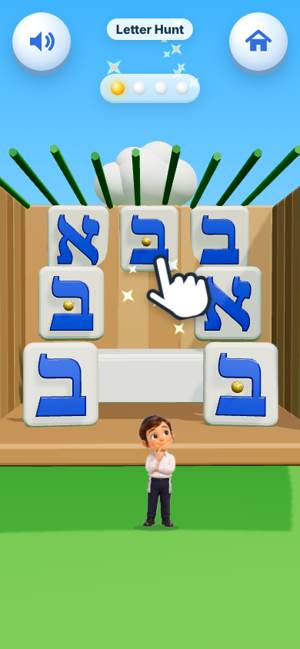
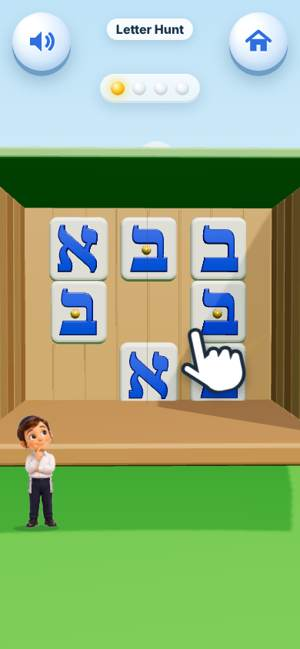
2.0 K clarity review-kriyah round 3 (Units 1-2): Letter Hunt one flat grid of same-size tiles, no table, soft roof, first miss shows; train waiting cars below the track and a pale empty car marks the next place; Sound Match card clear of the letters; Mendy's story phone fixes and 'Abba means Tatty';
Claude-Session: https://claude.ai/code/session_016N866vM14TpCsxVwPqjzgh

diff --git a/v2/app/k-kriyah/games/hunt.js b/v2/app/k-kriyah/games/hunt.js
@@ -28,17 +28,17 @@ export default function setup(E, { struggled, unit, game }) {
   function buildSukkah(w) {
     if (suk) E.scene.remove(suk); suk = new THREE.Group(); E.scene.add(suk); W = w; const hw = w / 2;
     suk.add(E.mesh(E.rbox(w + .4, .16, 4.2, .05), wood2, 0, .08, -.1));
-    const n = Math.round(w / .52); for (let i = 0; i < n; i++) suk.add(E.mesh(E.rbox(w / n - .03, 3.3, .14, .04), i % 2 ? wood : wood2, -hw + (i + .5) * w / n, 1.75, -1.7));   /* back wall */
+    const n = Math.round(w / .52); for (let i = 0; i < n; i++) suk.add(E.mesh(E.rbox(w / n - .03, 3.3, .14, .04), i % 2 || E.CALM ? wood : wood2, -hw + (i + .5) * w / n, 1.75, -1.7));   /* back wall */
     for (const s of [-1, 1]) for (let i = 0; i < 6; i++) suk.add(E.mesh(E.rbox(.14, 3.3, .5, .04), i % 2 ? wood : wood2, s * (hw + .05), 1.75, -1.45 + i * .52));   /* side walls */
-    for (let i = 0; i < Math.round(w * 2.2); i++) { const b = E.mesh(new THREE.CylinderGeometry(.05, .05, 4.1, 6), i % 2 ? leaf : leaf2, -hw + i / 2.2 + .1, 3.42 + (i % 3) * .04, -.1, false); b.rotation.x = Math.PI / 2; suk.add(b); }   /* schach */
+    if (E.CALM) suk.add(E.mesh(E.rbox(w + .3, .07, 4.2, .03), E.M(0x8fd07a, { roughness: .8, emissive: 0x6fb05a, emissiveIntensity: .7 }), 0, 3.45, -.1, false));   /* a soft green roof, light underneath too */ else for (let i = 0; i < Math.round(w * 2.2); i++) { const b = E.mesh(new THREE.CylinderGeometry(.05, .05, 4.1, 6), i % 2 ? leaf : leaf2, -hw + i / 2.2 + .1, 3.42 + (i % 3) * .04, -.1, false); b.rotation.x = Math.PI / 2; suk.add(b); }   /* schach */
     if (!E.CALM) for (let i = 0; i < Math.round(w * 1.6); i++) suk.add(E.mesh(new THREE.SphereGeometry(.22 + (i % 3) * .05, 10, 8), i % 2 ? leaf : leaf2, -hw + (i * .63) % w, 3.55, -1.6 + (i * 1.37) % 3.4, false));
     /* a paper chain along the back wall (not in the calm look: seen edge-on its rings looked like Vov and Zayin, K-CLARITY 10, 11) */
     if (!E.CALM) { const cc = [0xff5d8f, 0x2dbb6a, 0x2f7de1, 0x9b5de5];   /* no gold or yellow near the letters: it could look like the dagesh */ for (let i = 0; i < Math.round(w * 3); i++) { const r = E.mesh(new THREE.TorusGeometry(.1, .025, 6, 12), E.M(cc[i % 4], { roughness: .4 }), -hw + .2 + i / 3, 3.15 - Math.sin(i / 3 * 1.4) * .12, -1.55, false); r.rotation.y = i % 2 ? Math.PI / 2 : 0; suk.add(r); } }
     /* hanging fruit, only in the far top corners (not in the calm look) */
     if (!E.CALM) [[-.46, 0xe8322b], [.46, 0x8e2b8e]].forEach(([x, c]) => { const X = x * w; suk.add(E.mesh(new THREE.CylinderGeometry(.008, .008, .4, 4), E.M(0xffffff), X, 3.15, -1.2, false)); suk.add(E.mesh(new THREE.SphereGeometry(.15, 16, 12), E.M(c, { roughness: .3, clearcoat: .8 }), X, 2.92, -1.2)); });
     /* the table with a white cloth, a kiddush cup and a fruit bowl */
-    const tw = Math.min(3.2, w * .5); suk.add(E.mesh(E.rbox(tw, .12, 1.3, .05), cloth, 0, 1.0, -.2)); suk.add(E.mesh(E.rbox(tw + .05, .55, .05, .02), cloth, 0, .75, .46));
-    [[-1, -1], [1, -1]].forEach(([a]) => suk.add(E.mesh(new THREE.CylinderGeometry(.05, .05, 1, 8), wood2, a * (tw / 2 - .15), .5, -.7)));
+    const tw = Math.min(3.2, w * .5); if (!E.CALM) { suk.add(E.mesh(E.rbox(tw, .12, 1.3, .05), cloth, 0, 1.0, -.2)); suk.add(E.mesh(E.rbox(tw + .05, .55, .05, .02), cloth, 0, .75, .46)); }   /* calm: no table (its white cloth looked like one more blank tile) */
+    if (!E.CALM) [[-1, -1], [1, -1]].forEach(([a]) => suk.add(E.mesh(new THREE.CylinderGeometry(.05, .05, 1, 8), wood2, a * (tw / 2 - .15), .5, -.7)));
     if (!E.CALM) { suk.add(E.mesh(new THREE.CylinderGeometry(.09, .05, .22, 16), E.M(0xd8dde6, { metalness: .9, roughness: .15 }), -tw * .3, 1.2, -.35)); suk.add(E.mesh(new THREE.CylinderGeometry(.02, .02, .14, 8), E.M(0xd8dde6, { metalness: .9, roughness: .15 }), -tw * .3, 1.1, -.35)); }
     if (!E.CALM) { suk.add(E.mesh(new THREE.SphereGeometry(.3, 20, 10, 0, Math.PI * 2, Math.PI / 2, Math.PI / 2), E.M(0xff8a1e, { side: THREE.DoubleSide }), tw * .28, 1.33, -.35)); }
     if (!E.CALM) { [0xe8322b, 0x7bc043, 0xc0392b].forEach((c, i) => suk.add(E.mesh(new THREE.SphereGeometry(.12, 14, 10), E.M(c, { roughness: .3, clearcoat: .8 }), tw * .28 - .12 + i * .12, 1.36, -.35))); }
@@ -54,19 +54,21 @@ export default function setup(E, { struggled, unit, game }) {
     else sp = [[-1.15, 3.0, -1.5, 0], [0, 3.0, -1.5, 0], [1.15, 3.0, -1.5, 0],   /* a phone: three tidy rows, apart (the back wall, */
       [-1.15, 1.8, -.4, 0], [1.15, 1.8, -.4, 0],                                         /* beside the table, */
       [-1.15, .75, .9, 0], [0, .75, .9, 0], [1.15, .75, .9, 0]];                         /* and in front) */
+    if (E.CALM) sp = w >= 5 ? [-2.4, -.8, .8, 2.4].flatMap(x => [[x, 2.55, -1.45, 0], [x, 1.15, -1.45, 0]])   /* calm: one flat grid on the back wall, every tile the same size, none in front of another */
+      : [[-1.15, 2.7, -1.45, 0], [0, 2.7, -1.45, 0], [1.15, 2.7, -1.45, 0], [-1.15, 1.67, -1.45, 0], [1.15, 1.67, -1.45, 0], [-1.15, .64, -1.45, 0], [0, .64, -1.45, 0], [1.15, .64, -1.45, 0]];
     spots = sp.map(([x, y, z, ry]) => ({ p: new THREE.Vector3(x, y, z), ry }));
     if (letters.length) letters.forEach((l, i) => { if (l.userData.spot != null) placeAt(l, l.userData.spot); });
   }
   E.onLayout(p => {
     buildSukkah(p ? 4.2 : 7.4);
-    if (p) { E.camBase.set(0, 1.7, 9.4); E.camTarget.set(0, 1.5, 0); boy.position.set(0, 0, 4.2); boy.scale.setScalar(.5); }
-    else { E.camBase.set(0, 2.2, 9.2); E.camTarget.set(0, 1.75, 0); boy.position.set(-2.9, .16, 1.55); boy.scale.setScalar(.85); }
+    if (p) { E.camBase.set(0, 1.7, 9.4); E.camTarget.set(0, 1.5, 0); boy.position.set(E.CALM ? -.95 : 0, 0, 4.2); boy.scale.setScalar(.5); }
+    else { E.camBase.set(0, 2.2, 9.2); E.camTarget.set(0, 1.75, 0); boy.position.set(E.CALM ? -4.35 : -2.9, .16, 1.55); boy.scale.setScalar(.85); }   /* calm: the boy stands beside the sukkah, never in front of a tile */
   });
   E.setSway(.5);
   const SIZE = () => E.portrait ? .72 : .9;
-  function placeAt(l, i) { const s = spots[i]; l.userData.spot = i; l.position.copy(s.p); l.lookAt(E.cam.position); l.userData.base = s.p.clone(); }   /* every tile faces the boy, so no letter is squashed (reviewer: floor and side-wall letters looked like other letters) */
+  function placeAt(l, i) { const s = spots[i]; l.userData.spot = i; l.position.copy(s.p); if (E.CALM) l.rotation.set(0, 0, 0); else l.lookAt(E.cam.position); l.userData.base = s.p.clone(); }   /* every tile faces the boy, so no letter is squashed (reviewer: floor and side-wall letters looked like other letters) */
   E.onFrame(t => {
-    letters.forEach((l, i) => { if (l.visible && l.userData.base && !l.userData.busy) { if (E.CALM) { l.position.copy(l.userData.base); l.lookAt(E.cam.position); return; } l.position.y = l.userData.base.y + Math.sin(t * 1.6 + i) * .03; l.rotation.z = Math.sin(t * 1.3 + i) * .05;   /* calm: the letters stand still (K-CLARITY 10) */ } });
+    letters.forEach((l, i) => { if (l.visible && l.userData.base && !l.userData.busy) { if (E.CALM) { l.position.copy(l.userData.base); l.rotation.set(0, 0, 0); return; }   /* calm: flat on the wall, facing straight out */ l.position.y = l.userData.base.y + Math.sin(t * 1.6 + i) * .03; l.rotation.z = Math.sin(t * 1.3 + i) * .05;   /* calm: the letters stand still (K-CLARITY 10) */ } });
     if (helpOn && helpOn.visible) { glow.position.copy(helpOn.position).add(new THREE.Vector3(0, 0, -.2)); glow.material.opacity = .6 + Math.sin(t * 5) * .3; } else glow.material.opacity = 0;
   });
   window.__info = () => ({ rects: spots.map(x => { const a = E.toScreen(x.p.clone().add(new THREE.Vector3(-SIZE() * .6, SIZE() * .65, 0))), b = E.toScreen(x.p.clone().add(new THREE.Vector3(SIZE() * .6, -SIZE() * .65, 0))); return [a[0], a[1], b[0], b[1]]; }),   /* each tile's box on screen */ want, round, active, targets: letters.filter(l => l.visible && l.userData.key === want && !l.userData.got).map(l => E.toScreen(E.worldPos(l))),
@@ -96,7 +98,7 @@ export default function setup(E, { struggled, unit, game }) {
     if (plan.bySound) { E.noteLetter && E.noteLetter(want, false); await E.say(E.quiet(k) ? ['That is ' + NM(k) + '. It is quiet. Find', E.S(E.LETTERS[want].snd), '!'] : ['That is ' + NM(k) + '. It says', E.S(E.LETTERS[k].snd), '. Find', E.S(E.LETTERS[want].snd), '!']); }   /* a sound game answers with sounds */
     else await E.say('That is ' + NM(k) + '. ' + look);   /* 12 words or fewer */
     arrow.visible = false;
-    if (wrongInRound >= 2) showHelp();
+    if (wrongInRound >= (E.CALM ? 1 : 2)) showHelp();   /* calm: the first miss already shows a right one (K-CLARITY 16) */
   }
   function showHelp() { const t = letters.find(l => l.visible && !l.userData.got && l.userData.key === want); if (!t) return; helpOn = t; if (E.CALM) return E.handBelow(t, true); const [x, y] = E.toScreen(E.worldPos(t)); E.hand.at(x + 10, y + 10, true); }
   E.onPointer('down', async e => {

diff --git a/v2/app/k-kriyah/games/train.js b/v2/app/k-kriyah/games/train.js
@@ -25,19 +25,21 @@ export default function setup(E, { struggled, unit, game = {} }) {
     c.add(E.mesh(new THREE.BoxGeometry(.12, .06, .06), gold, .56, .4, 0));
     const l = E.letter(k, .8); l.position.set(0, 1.15 + l.userData.below, .1); if (E.CALM) { l.position.set(0, 0, .1); l.updateMatrixWorld(true); const lift = -new THREE.Box3().setFromObject(l.userData.body).min.y; l.children.forEach(ch => ch.position.y += lift); l.position.y = .95; }   /* calm: the letter's foot stands on the roof, so nothing of it sinks into the car (reviewer: Alef was two bumps, Hei lost its leg) */   /* Kuf's long leg shows above the car */ c.add(l); c.userData = { key: k, i, on: false, letter: l }; E.scene.add(c); return c; });
   const glow = E.glowSprite('#fff7b0', 2.2, 0); E.scene.add(glow);
+  const ghost = E.mesh(E.rbox(1.0, .55, .75, .08), new THREE.MeshStandardMaterial({ color: 0xffffff, transparent: true, opacity: .45, roughness: .5 }), 0, 0, 0, false); ghost.visible = false; E.scene.add(ghost);   /* calm: a pale empty car marks where the next car goes */
   let LX = 4.6, P = false, S = 1, slotX = [], homes = [], busy = true, enabled = false, drag = null, grab = new THREE.Vector3(), help = struggled, wrong = 0, wrongInRow = 0, resolveRound = null, gaps = null, rolling = false;
   const slotPos = i => new THREE.Vector3(slotX[i], 0, .2);
   E.onLayout(p => { P = p; S = p ? (ORDER.length === 5 ? .6 : .5) : 1;
     const lx = p ? (ORDER.length >= 7 ? 2.0 : ORDER.length >= 6 ? 1.85 : ORDER.length === 5 ? 1.75 : 1.68) : 4.6, step = p ? (ORDER.length >= 7 ? .53 : ORDER.length >= 6 ? .6 : ORDER.length === 5 ? .68 : .55) : 1.22;   /* seven cars: a little closer, so the last car stays on a phone screen */   /* on a phone the whole train fits the width */ LX = lx; loco.position.set(lx, 0, .2); loco.scale.setScalar(S); track.scale.set(1, 1, S); track.position.z = .2;
     slotX = ORDER.map((_, i) => lx - (p ? .67 : 1.35) - i * step);
     const top = Math.ceil(ORDER.length / 2), per = ORDER.length > 6 ? [top, ORDER.length - top] : [3, 3];   /* seven cars: four on top, three below, none on top of another */
-    homes = ORDER.map((_, i) => p ? (() => { const r = i < per[0] ? 0 : 1, j = r ? i - per[0] : i, n = per[r], gap = n > 3 ? 1.05 : 1.3; return new THREE.Vector3(((n - 1) / 2 - j) * gap, r ? 1.6 : 3.2, .6); })() : new THREE.Vector3(ORDER.length > 6 ? ((ORDER.length - 1) / 2 - i) * .76 : E.CALM ? ((ORDER.length - 1) / 2 - i) * .98 - .2 : 2.25 - i * .98, 0, ORDER.length > 6 ? 3.7 : 4.2));   /* calm: the waiting cars stand well apart, so they never look like a train already made */   /* seven cars: centred and a little closer, so none leaves the screen */   /* all inside the screen: on a phone, two rows above the train */   /* waiting on the grass in front of the track */
+    homes = ORDER.map((_, i) => p ? (() => { const r = i < per[0] ? 0 : 1, j = r ? i - per[0] : i, n = per[r], gap = n > 3 ? 1.05 : 1.3; return new THREE.Vector3(((n - 1) / 2 - j) * gap, r ? 1.6 : 3.2, .6); })() : new THREE.Vector3(ORDER.length > 6 ? ((ORDER.length - 1) / 2 - i) * .76 : E.CALM ? ((ORDER.length - 1) / 2 - i) * .9 - .2 : 2.25 - i * .98, 0, ORDER.length > 6 ? 3.7 : E.CALM ? 4.75 : 4.2));   /* calm: well in front of (below) the train, never over its cars */   /* calm: the waiting cars stand well apart, so they never look like a train already made */   /* seven cars: centred and a little closer, so none leaves the screen */   /* all inside the screen: on a phone, two rows above the train */   /* waiting on the grass in front of the track */
     cars.forEach(c => c.userData.letter.scale.setScalar(p ? 1.45 : 1));   /* much bigger letters on a phone (reviewer: Kaf's dot hardly showed) */
     cars.forEach(c => { c.scale.setScalar(c.userData.on ? S : (p ? .75 : .7)); if (c.userData.on) c.position.copy(slotPos(c.userData.slot)); else if (c !== drag) c.position.copy(homes[c.userData.home ?? c.userData.i]); });
-    if (p) { E.camBase.set(0, 2.3, 11); E.camTarget.set(0, 1.8, 0); } else { E.camBase.set(0, 2.7, 10.2); E.camTarget.set(0, 1.5, 0); }
+    if (p) { E.camBase.set(0, 2.3, 11); E.camTarget.set(0, 1.8, 0); } else { E.camBase.set(0, 2.7, 10.2); E.camTarget.set(0, E.CALM ? 1.05 : 1.5, 0); }   /* calm: a little more ground, so the waiting cars sit well below the train */
   });
   E.onFrame(t => {
-    puffs.forEach((p, i) => { const k = ((t * .8 + i / 4) % 1); p.position.set(-.35 - k * .5, 1.4 + k * .9, 0); p.scale.setScalar(.6 + k * 1.2); p.material.opacity = .8 * (1 - k); });
+    { const nn = E.CALM && enabled && !swapPairs.length ? nextNeeded() : null; ghost.visible = nn != null && !drag; if (ghost.visible) { ghost.position.copy(slotPos(nn)).add(new THREE.Vector3(0, .55 * S, 0)); ghost.scale.setScalar(S); ghost.material.opacity = .35 + Math.sin(t * 3) * .12; } }
+    if (E.CALM) puffs.forEach(p => p.visible = false); else puffs.forEach((p, i) => { const k = ((t * .8 + i / 4) % 1); p.position.set(-.35 - k * .5, 1.4 + k * .9, 0); p.scale.setScalar(.6 + k * 1.2); p.material.opacity = .8 * (1 - k); });
     cars.forEach((c, i) => { if (!c.userData.on && c !== drag && !c.userData.busy && c.visible) { c.position.y = homes[c.userData.home ?? i].y + Math.sin(t * 2 + i) * .05; } if (!E.CALM) c.userData.letter.rotation.y = Math.sin(t * 1.3 + i) * .2; if (P) c.userData.letter.scale.setScalar(c.userData.on ? (swapPairs.length ? 1.15 : ORDER.length >= 6 ? 1.25 : 1.2) : 1.3);   /* in the mix-up round the letters on the train are bigger, so the dots show */ });   /* on a phone, letters on the train are bigger */
     const need = nextNeeded(), g = swapPairs.length ? cars.find(c => swapPairs.some(p => p.includes(c.userData.slot))) : need != null && cars.find(c => c.userData.key === ORDER[need] && !c.userData.on);   /* in the mix-up round, a mixed-up car glows */
     if (help && g && enabled) { glow.position.copy(g.position).add(new THREE.Vector3(0, .9 * g.scale.x, -.4)); glow.material.opacity = .55 + Math.sin(t * 5) * .3; } else glow.material.opacity = 0;

diff --git a/v2/app/k-kriyah/games/soundmatch.js b/v2/app/k-kriyah/games/soundmatch.js
@@ -9,7 +9,7 @@ export default function setup(E, { struggled, unit, game = {} }) {
   const words = Object.keys(WORDS).filter(w => keys.includes(WORDS[w].letter) && hasPic(w)).filter((w, i, a) => a.slice(0, i).filter(x => WORDS[x].letter === WORDS[w].letter).length < 2);   /* two pictures per letter */
   words.forEach(w => PIC[w]());   /* every picture starts loading now, so no card is ever blank */
   const kid = E.unitBoy(unit.n); E.scene.add(kid);   /* the unit's boy: Shloimy, then Ari */
-  const L = {}, peds = [], pedM = E.M(0xffffff, { roughness: .25, clearcoat: .8 }), tops = [0xff7aa8, 0x46c3ff, E.CALM ? 0x7bd94a : 0xffcf3a];
+  const L = {}, peds = [], pedM = E.M(0xffffff, { roughness: .25, clearcoat: .8 }), tops = E.CALM ? [0x9fc3e6, 0x9fc3e6, 0x9fc3e6] : [0xff7aa8, 0x46c3ff, 0xffcf3a];
   keys.forEach((k, i) => { const p = new THREE.Group(); p.add(E.mesh(new THREE.CylinderGeometry(.75, .85, .5, 32), pedM, 0, .25, 0)); p.add(E.mesh(new THREE.CylinderGeometry(.78, .78, .12, 32), E.M(tops[i % 3], { roughness: .25, clearcoat: 1 }), 0, .55, 0));
     const l = E.letter(k, 1.4); l.position.y = E.CALM ? .68 - E.footOf(l) : 1.4 + l.userData.below;   /* calm: every letter stands on its stand */   /* Kuf's long leg stands above the stand */ p.add(l); L[k] = l; p.userData.key = k; E.scene.add(p); peds.push(p); });
   const ROW1 = () => false; const SHELF = () => E.CALM && P && peds.length > 3;   /* calm, on a phone: two shelves of two, all at the same distance and facing him (one row of four was too small) */
@@ -22,7 +22,7 @@ export default function setup(E, { struggled, unit, game = {} }) {
   let pic = null, word = null, P = false, gap = 2.3, cardHome = new THREE.Vector3(), busy = true, dragging = false, enabled = false, help = struggled, mistakes = 0, missed = false, onDone = null, idx = 0;
   E.onLayout(p => { P = p; gap = p ? (peds.length > 3 ? (ROW1() ? .9 : 1.12) : 1.45) : (peds.length > 3 ? 2.05 : 2.3); kid.visible = !p;   /* on a phone there's no room for Shloimy beside the stands */
     if (p) { if (peds.length > 3 && !ROW1()) { E.camBase.set(0, 5.6, 11.5); E.camTarget.set(0, 1.3, .8); cardHome.set(0, 3.6, -3.4); } else { E.camBase.set(0, 2.8, 10.6); E.camTarget.set(0, 2.4, 0); cardHome.set(0, 3.9, 2.2); } kid.position.set(-1.5, 0, 2.6); kid.scale.setScalar(.6); }
-    else { E.camBase.set(0, 2.6, 9.5); E.camTarget.set(0, 1.9, 0); cardHome.set(0, E.CALM ? 2.85 : 3.15, 2.2);   /* calm: below the progress dots (the letters now stand lower) */   /* higher when a raised Kuf stands below */   /* well above the letters, so it never seems to belong to one */ kid.position.set(-4.4, 0, 1.2); kid.scale.setScalar(1); }
+    else { E.camBase.set(0, 2.6, 9.5); E.camTarget.set(0, 1.9, 0); cardHome.set(0, E.CALM ? 3.0 : 3.15, 2.2);   /* calm: below the progress dots (the letters now stand lower) */   /* higher when a raised Kuf stands below */   /* well above the letters, so it never seems to belong to one */ kid.position.set(-4.4, 0, 1.2); kid.scale.setScalar(1); }
     const m = peds.length, two = P && m > 3 && !ROW1() && !SHELF(); shelf.visible = SHELF(); if (SHELF()) { E.camBase.set(0, 2.9, 11.2); E.camTarget.set(0, 2.55, 0); cardHome.set(0, 4.95, 1.0); } peds.forEach((pd, i) => { if (two) pd.position.set(i % 2 ? -1.0 : 1.0, 0, i < 2 ? -3.0 : 2.6); else if (SHELF()) pd.position.set(i % 2 ? -.72 : .72, i < 2 ? 2.08 : 0, .6); else pd.position.set(((m - 1) / 2 - i) * gap, 0, .6); pd.scale.setScalar(SHELF() ? .62 : PS()); });   /* on a phone, four stands in two rows of two, right to left, top row first */   /* right to left: Gimmel, Daled, Hei, then Beis */
     if (card.visible && !dragging && !busy) card.position.copy(cardHome);
   });
@@ -47,7 +47,7 @@ export default function setup(E, { struggled, unit, game = {} }) {
 
   async function showCard(w) {
     word = w; if (pic) card.remove(pic); pic = PIC[w](); card.add(pic); const wide = pic.userData.card && pic.userData.card.scale.x > 2.2; pic.scale.setScalar(wide ? .78 : 1); cardBack.scale.x = pic.userData.card ? Math.max(1, (pic.userData.card.scale.x * (wide ? .78 : 1) + .35) / 2.05) : 1;   /* a wide picture (the cloud) is a little smaller, on a wider card */   /* a wide picture (the cloud) gets a wider card */ card.position.copy(cardHome); card.rotation.set(0, 0, 0); missed = false;
-    await E.popIn(card, (P ? .9 : .85) * (keys.includes('kuf') && !P ? .7 : keys.includes('kuf') ? .78 : 1)); busy = false;   /* a little smaller above a raised Kuf */
+    await E.popIn(card, (P ? .9 : E.CALM ? .7 : .85) * (keys.includes('kuf') && !P ? .7 : keys.includes('kuf') ? .78 : 1)); busy = false;   /* a little smaller above a raised Kuf */
     await E.say(WORDS[w].say);
   }
   async function back() { const p0 = card.position.clone(); busy = true; await E.tween(400, k => card.position.lerpVectors(p0, cardHome, k), E.ease.out); busy = false; }

diff --git a/v2/app/k-kriyah/games/story.js b/v2/app/k-kriyah/games/story.js
@@ -44,8 +44,8 @@ export default function setup(E) {
     E.tween(700, k => glow.material.opacity = k * .8); await E.popIn(alef, 1, 700); float(alef);
     E.setProgress(4, 1);
     await E.say('This is Alef.');
-    const ds = dad.scale.x; dad.position.set(P ? -1.4 : -2.4, 0, 1.4); if (P) dad.scale.setScalar(ds * .68); dad.mood('wave');
-    await E.say('Abba starts with Alef.'); dad.mood('calm');
+    const ds = dad.scale.x; dad.position.set(P ? (E.CALM ? -1.95 : -1.4) : -2.4, 0, 1.4);   /* calm: on a phone Tatty stands clear of Alef's leg */ if (P) dad.scale.setScalar(ds * .68); dad.mood('wave');
+    await E.say(E.CALM ? 'Abba means Tatty. Abba starts with Alef.' : 'Abba starts with Alef.'); dad.mood('calm');
     await E.say('Alef is quiet. It waits for its nekudah.');
     await E.sayWithMe('alef');
     if (E.CALM) { await E.say('Watch me. I tap Alef.'); E.handBelow(alef, true); await E.wait(500); E.hop(alef, .3, 350); await E.wait(400); E.hand.hide(); await E.say('Now you! Tap Alef!'); }   /* the first tap is shown first (K-CLARITY 15) */
@@ -54,7 +54,7 @@ export default function setup(E) {
     await E.popOut(dad); dad.scale.setScalar(ds);
     /* 3. Beis: the house turns into Beis, and Mendy becomes the dot */
     float(alef, false); const a0 = alef.position.clone();
-    await E.tween(700, k => { alef.position.lerpVectors(a0, new THREE.Vector3(X().row, P && E.CALM ? 3.55 : 1.6, .2), k); alef.scale.setScalar(1 - k * (1 - (P && E.CALM ? .42 : X().s)));   /* on a phone Alef waits up high, so the big Beis never covers it */ glow.material.opacity = .8 * (1 - k); }); float(alef);
+    await E.tween(700, k => { alef.position.lerpVectors(a0, new THREE.Vector3(X().row, P && E.CALM ? 3.55 : 1.6, .2), k); alef.scale.setScalar(1 - k * (1 - (P && E.CALM ? .42 : X().s)));   /* on a phone Alef waits up high, so the big Beis never covers it */ glow.material.opacity = .8 * (1 - k); }); float(alef); if (P && E.CALM) alef.visible = false;   /* calm, on a phone: Alef steps away while Beis and Veis are taught (beside them it read as one strange letter), and comes back for the row */
     home.position.set(0, 0, 0); home.scale.setScalar(P ? .75 : .9); boy.scale.setScalar(1); boy.position.set(-.55, 0, 1.3); boy.visible = true; await Promise.all([E.popIn(home, P ? .75 : .9), E.popIn(boy)]);
     E.setProgress(4, 2);
     boy.mood('wave'); await E.say('This is Mendy’s house.');   /* English words only (HoS 2026-11-26) */
@@ -87,7 +87,7 @@ export default function setup(E) {
     await tapIt(veis, ['Veis says', S('v')]);
     /* 5. all three in a row (right to left: Alef, Beis, Veis), and a short chant */
     float(veis, false); const v0 = veis.position.clone();
-    if (P && E.CALM) { float(alef, false); const aa = alef.position.clone(), as = alef.scale.x; await E.tween(500, k => { alef.position.lerpVectors(aa, new THREE.Vector3(X().row, 1.6, .2), k); alef.scale.setScalar(as + (X().s - as) * k); }); float(alef); }
+    if (P && E.CALM) { alef.visible = true; float(alef, false); const aa = alef.position.clone(), as = alef.scale.x; await E.tween(500, k => { alef.position.lerpVectors(aa, new THREE.Vector3(X().row, 1.6, .2), k); alef.scale.setScalar(as + (X().s - as) * k); }); float(alef); }
     await E.tween(700, k => { veis.position.lerpVectors(v0, new THREE.Vector3(-X().row, 1.6, .2), k); veis.scale.setScalar(1 - k * (1 - X().s)); glow.material.opacity = .8 * (1 - k); }); float(veis);
     beis.position.set(0, 1.6, .2); beis.rotation.set(0, 0, 0); beis.userData.dot.visible = true; beis.userData.dot.scale.setScalar(1); await E.popIn(beis, X().s); float(beis);
     E.setProgress(4, 4);

diff --git a/v2/app/k-kriyah/games/mastery.js b/v2/app/k-kriyah/games/mastery.js
@@ -20,7 +20,7 @@ export default function setup(E, { struggled, unit, id }) {
   const { THREE, S } = E;
   const rebbe = E.rebbe(); E.scene.add(rebbe);
   const keys = [...unit.known, ...unit.letters], L = {}, peds = [];
-  const pedM = E.M(0xffffff, { roughness: .25, clearcoat: .8 }), pedTop = [E.M(0xff7aa8, { roughness: .25, clearcoat: 1 }), E.M(0x46c3ff, { roughness: .25, clearcoat: 1 }), E.M(E.CALM ? 0x7bd94a : 0xffcf3a, { roughness: .25, clearcoat: 1 })];   /* calm: green, not gold, under a dot letter */
+  const pedM = E.M(0xffffff, { roughness: .25, clearcoat: .8 }), pedTop = E.CALM ? [0, 1, 2].map(() => E.M(0x9fc3e6, { roughness: .4 })) : [E.M(0xff7aa8, { roughness: .25, clearcoat: 1 }), E.M(0x46c3ff, { roughness: .25, clearcoat: 1 }), E.M(0xffcf3a, { roughness: .25, clearcoat: 1 })];   /* calm: one soft colour, so the letter is the brightest thing */   /* calm: green, not gold, under a dot letter */
   for (let i = 0; i < 3; i++) { const p = new THREE.Group(); p.add(E.mesh(new THREE.CylinderGeometry(.75, .85, .5, 32), pedM, 0, .25, 0)); p.add(E.mesh(new THREE.CylinderGeometry(.78, .78, .12, 32), pedTop[i], 0, .55, 0)); E.scene.add(p); peds.push(p); }
   keys.forEach(k => { L[k] = E.letter(k, 1.6); E.scene.add(L[k]); L[k].visible = false; });
   const arrows = [E.arrow3d(.3), E.arrow3d(.3)];   /* on a look-alike mix-up: point at the place to look on both letters */
@@ -93,7 +93,7 @@ export default function setup(E, { struggled, unit, id }) {
   return async () => {
     E.setProgress(Qs.length, 0);
     const demoK = unit.letters[0] || 'shin'; await showSet(demoK);
-    rebbe.mood('wave'); await E.say('Show the rebbe what you know!'); rebbe.mood('calm');
+    rebbe.mood('wave'); await E.say(E.portrait && E.CALM ? 'Show what you know!' : 'Show the rebbe what you know!');   /* no rebbe on a phone screen */ rebbe.mood('calm');
     /* show, then try */
     await E.say('Watch me. Tap ' + E.LETTERS[demoK].name + '.'); let [x, y] = E.toScreen(E.worldPos(L[demoK])); if (E.CALM) E.handBelow(L[demoK]); else E.hand.at(x, y + 20); await E.wait(700); E.hand.hide();
     E.sfx.chime(); E.hop(L[demoK]); await E.say(E.nameLine(demoK));

diff --git a/v2/app/k-kriyah/games/bonus.js b/v2/app/k-kriyah/games/bonus.js
@@ -31,7 +31,7 @@ export default function setup(E, { unit, game }) {
     const l = E.letter(k, E.CALM ? (E.portrait ? 1.1 : 1.25) : 1.0); let x; if (E.portrait) { const top = lx => Math.max(-9, ...falling.filter(f => !f.userData.busy && !f.userData.gone && Math.abs(f.userData.x - lx) < .5).map(f => f.position.y)); x = (E.CALM ? [.05, 1.2] : [-.25, 1.2]).sort((a, b) => top(a) - top(b))[0]; }   /* a phone has two lanes: the one whose last letter is lowest */
     else { const free = c => !falling.some(f => !f.userData.busy && !f.userData.gone && f.position.y > 1.6 && Math.abs(f.userData.x - c) < 1.5); let best = null, bd = -1;   /* a free lane: never on top of another falling letter */
       for (let t = 0; t < 40; t++) { const c = Math.max(-2.0, (Math.random() * 2 - 1) * X * .85 + .6); if (free(c)) { best = c; break; } const d = Math.min(9, ...falling.filter(f => !f.userData.gone).map(f => Math.abs(f.userData.x - c))); if (d > bd) { bd = d; best = c; } } x = best; }
-    l.userData = Object.assign(l.userData, { t0: performance.now(), ms: ms * FALL_F * (missRound >= 2 ? 1.5 : 1),   /* gentler after two misses in a round (reviewer) */ y0: E.portrait ? 5.0 : 4.0, y1: .5, x }); l.position.set(x, l.userData.y0, .8); E.scene.add(l); falling.push(l); E.popIn(l, 1, 250);   /* appears inside the sky, below the top buttons */
+    l.userData = Object.assign(l.userData, { t0: performance.now(), ms: ms * FALL_F * (missRound >= 2 ? 1.5 : 1),   /* gentler after two misses in a round (reviewer) */ y0: E.portrait ? 5.0 : E.CALM ? 3.6 : 4.0, y1: .5, x }); l.position.set(x, l.userData.y0, .8); E.scene.add(l); falling.push(l); E.popIn(l, 1, 250);   /* appears inside the sky, below the top buttons */
     if (k === want) targets++;
   }
   E.onPointer('down', async e => {

diff --git a/v2/app/k-kriyah/engine.js b/v2/app/k-kriyah/engine.js
@@ -603,7 +603,7 @@ export function letter(key, height = 2.6, color = 'blue') {
   let dot = null;
   const dp = dotAt(key);
   if (dp) {   /* the dagesh sits in the middle of the letter's open space (font units /10: Beis x 24, y 29.6 of 56.1 x 64.7) */
-    dot = mesh(new THREE.SphereGeometry(Math.max(.2 * height / 2.6, .075), 32, 24), goldDot(), (dp[0] - c.x) * s, (dp[1] - REF_CY) * s, CALM ? (5 / REF_H) * height + Math.max(.2 * height / 2.6, .075) * .35 : .42 * height / 2.6); grp.add(dot); dot.visible = !!(L.dagesh || L.top); }
+    dot = mesh(new THREE.SphereGeometry(Math.max(.2 * height / 2.6, .075), 32, 24), goldDot(), (dp[0] - c.x) * s, (dp[1] - REF_CY) * s, CALM ? (5 / REF_H) * height + Math.max(.2 * height / 2.6, .075) * .35 : .42 * height / 2.6); grp.add(dot); dot.castShadow = !CALM; dot.visible = !!(L.dagesh || L.top); }   /* calm: the dot casts no round shadow (it looked like a second dot) */
   const below = Math.max(0, -(bb.min.y + c.y) - 4) * s;   /* how far a long leg (Kuf) reaches below the line: stands and cars lift it by this much */
   grp.userData = { key, body: m, dot, hit, height, width: W * s, color, below, dotHome: dot ? dot.position.clone() : null };
   grp.setKey = k => { grp.userData.key = k; if (dot) { const d = dotAt(k); if (LETTERS[k].top) { grp.userData.dotHome.set((d[0] - c.x) * s, (d[1] - REF_CY) * s, dot.position.z); } dot.visible = !!(LETTERS[k].dagesh || LETTERS[k].top); dot.scale.setScalar(1); dot.position.copy(grp.userData.dotHome); } };   /* Shin to Sin: the dot moves to the other head */

diff --git a/v2/app/k-kriyah/games/detective.js b/v2/app/k-kriyah/games/detective.js
@@ -42,7 +42,7 @@ export default function setup(E, { struggled, game = {} }) {
     if (E.pickFrom(e, [card])) { dragging = true; const p = E.planePoint(e, plane()); if (p) grab.copy(card.position).sub(p); return; }
     const h = E.pickFrom(e, [HB, HV]); if (h) drop(h);              /* tapping a house works too */
   });
-  E.onPointer('move', e => { if (!dragging) return; const p = E.planePoint(e, plane()); if (p) { card.position.copy(p.add(grab)); card.rotation.z = (card.position.x - cardHome.x) * -.08; }
+  E.onPointer('move', e => { if (!dragging) return; const p = E.planePoint(e, plane()); if (p) { card.position.copy(p.add(grab)); if (!E.CALM) card.rotation.z = (card.position.x - cardHome.x) * -.08; }
     const near = nearestHouse(); [HB, HV].forEach(h => h.scale.setScalar(HS * (h === near ? 1.06 : 1))); });
   E.onPointer('up', () => { if (!dragging) return; dragging = false; [HB, HV].forEach(h => h.scale.setScalar(HS)); drop(nearestHouse()); });
 

diff --git a/v2/app/k-kriyah/games/mistake.js b/v2/app/k-kriyah/games/mistake.js
@@ -29,6 +29,7 @@ export default function setup(E, { struggled, unit }) {
   board.add(E.mesh(E.rbox(1.9, 2.0, .16, .1), E.M(E.CALM ? 0xb9784a : 0xffd43b, { metalness: E.CALM ? 0 : .4, roughness: .3 }), 0, 0, 0));
   board.add(E.mesh(E.rbox(1.62, 1.72, .1, .06), E.M(0xfffaf0, { roughness: .4 }), 0, 0, .06));
   if (!E.CALM) board.add(E.mesh(new THREE.CylinderGeometry(.07, .07, 2.4, 10), E.M(0x8a5a3c), 0, -2.1, -.05));   /* calm: the sign hangs on its own; its pole ran between the answer tiles and the buttons */
+  if (E.CALM) board.traverse(m => m.castShadow = false);   /* calm: the hanging sign throws no floating shadow */
   let shown = null; const ring = E.noticeRing(.36); const tiles = [];
   const glowT = E.glowSprite('#fff7b0', 2.2, 0); E.scene.add(glowT);
   let P = false, help = struggled, mistakes = 0, missed = false, dragT = null, grab = new THREE.Vector3(), fixKey = null, resolveFix = null, busy = false;

diff --git a/v2/curriculum/k-kriyah/CLARITY-PASS.md b/v2/curriculum/k-kriyah/CLARITY-PASS.md
@@ -82,3 +82,12 @@ Goal (Esti's words): "something a 5-6-year-old can figure out and learn, and it 
 | Story waiting letters | Pushed against the progress dots. | A little smaller. |
 
 Choice made for Esti: **Shloimy's Shabbos clothes are his white shirt and dark trousers** (normal Shabbos clothes); nothing extra is drawn on him.
+
+## Round 3, Units 1–2 (a new reviewer, new pictures of the current code): 11 of 15 games scored 4; what changed for the four 3s
+| Game | Finding | Change |
+|---|---|---|
+| Mendy's first day | On a phone Tatty hid Alef's leg; the waiting Alef sat on Veis's corner; "Tatty" then "Abba". | Tatty stands clear; on a phone Alef steps away while Beis and Veis are taught and comes back for the row; "Abba means Tatty. Abba starts with Alef." |
+| Letter Hunt | Tiles of different sizes, some leaning, some in front of others; a white tablecloth looked like a blank tile; bristling sticks; the first miss showed nothing. | One flat grid of same-size tiles on the back wall (two rows of four; three rows on a phone); no table; one soft green roof; plain wall; the boy beside the sukkah; the first miss already shows a right one. |
+| Sound Match | The picture card touched Gimmel's head (did it belong to Gimmel?). | A smaller card, higher, clear of every letter. |
+| Alef-Beis Train | Waiting cars stood over the train's cars; nothing marked the empty place; smoke balls beside Alef. | Waiting cars well below the track; a pale empty car marks where the next car goes; no smoke in the calm look. |
+| Shared | The dot cast a round shadow (a second dot); the hanging sign cast a floating shadow; "Show the rebbe" on a phone with no rebbe; a dragged letter leaned; multicoloured stand tops; falling letters began behind the title. | No dot shadow; no sign shadow; "Show what you know!" on a phone; letters stay upright; all stands one soft blue; letters start below the progress dots. |
